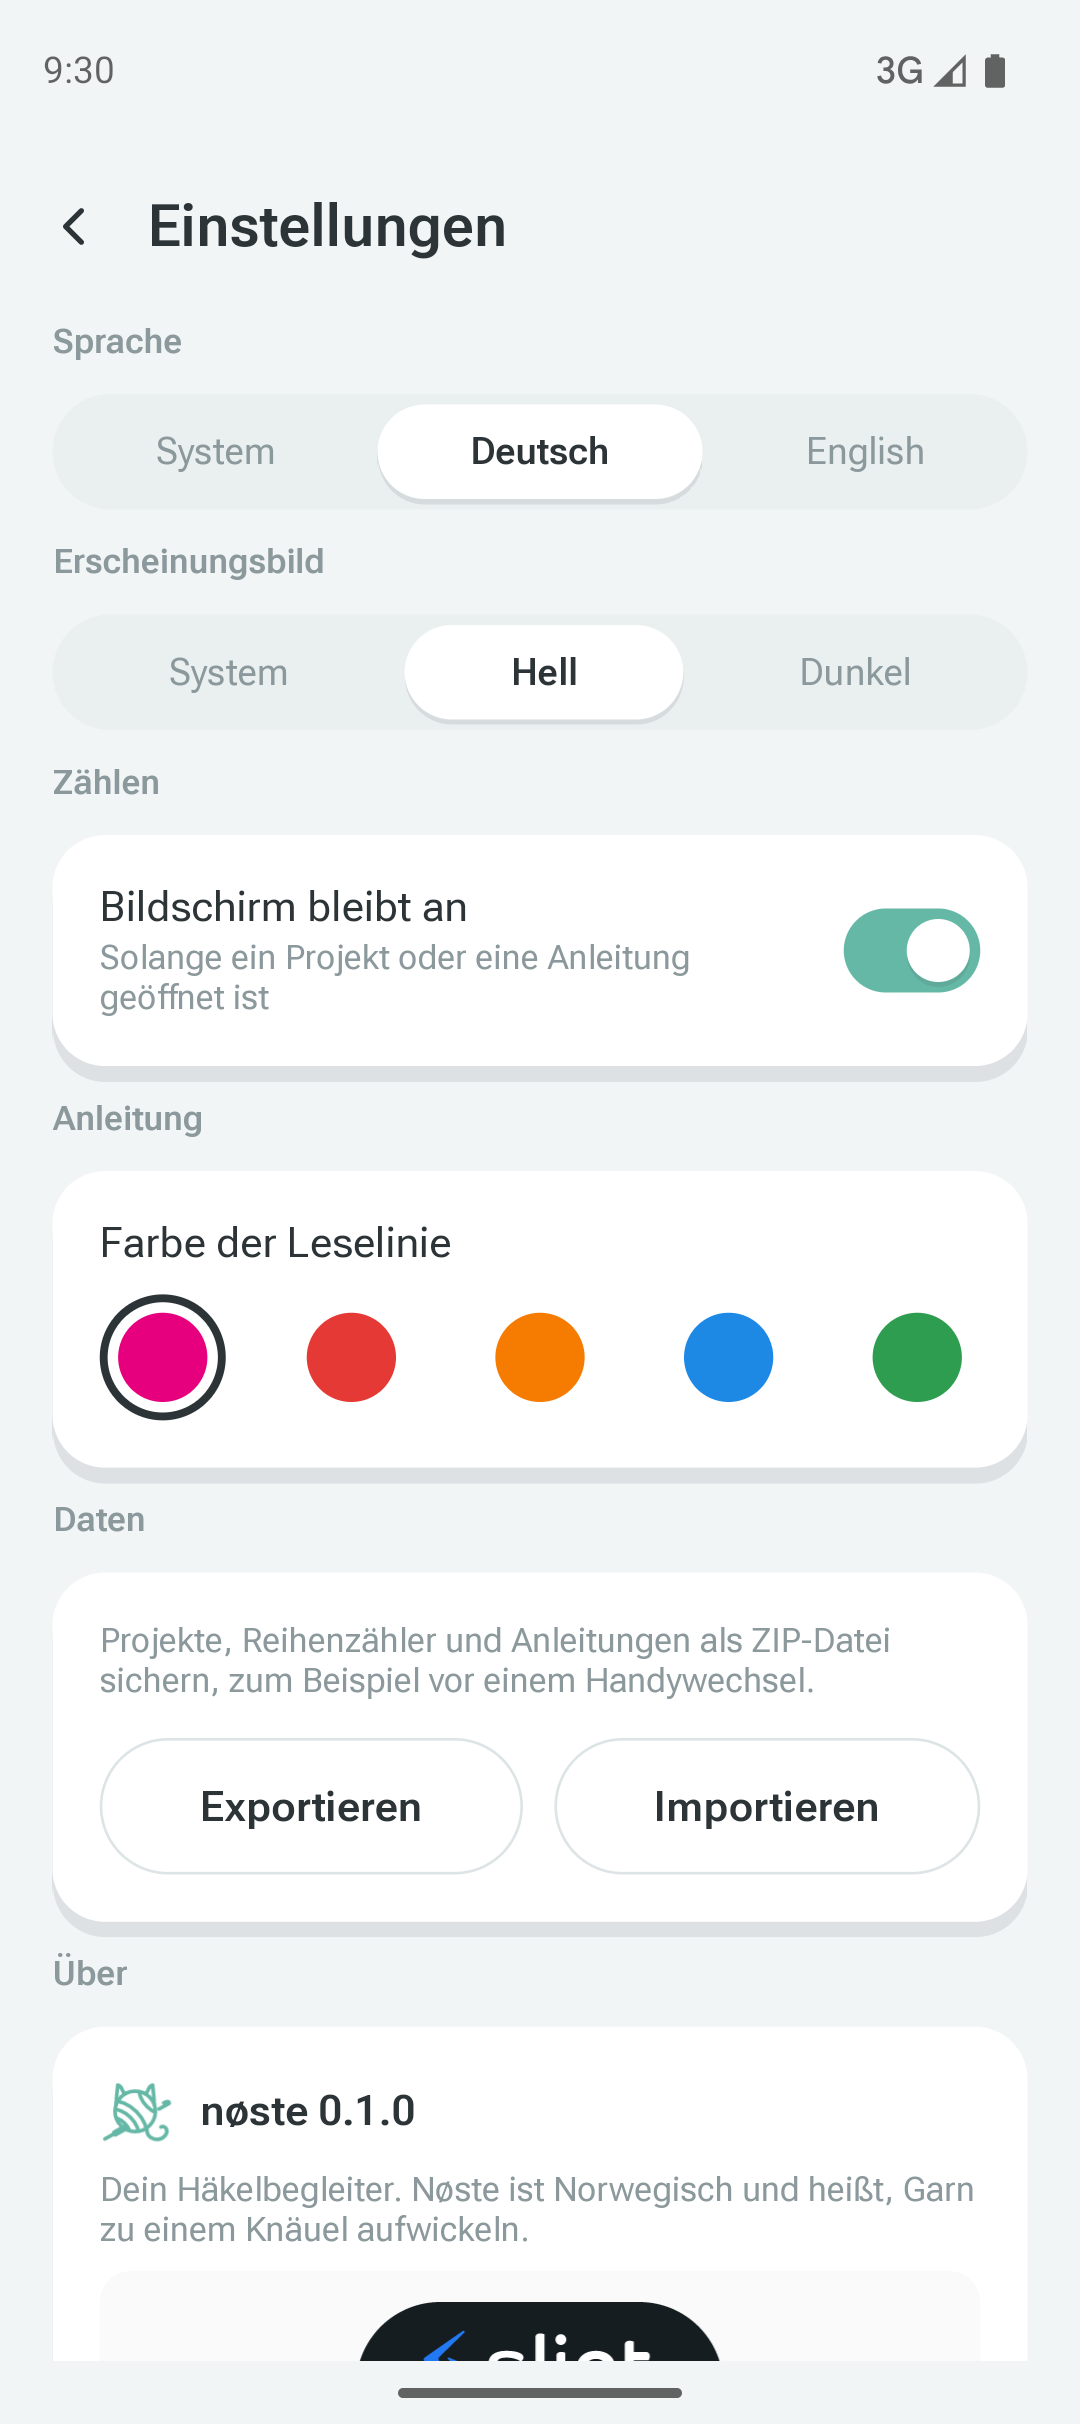
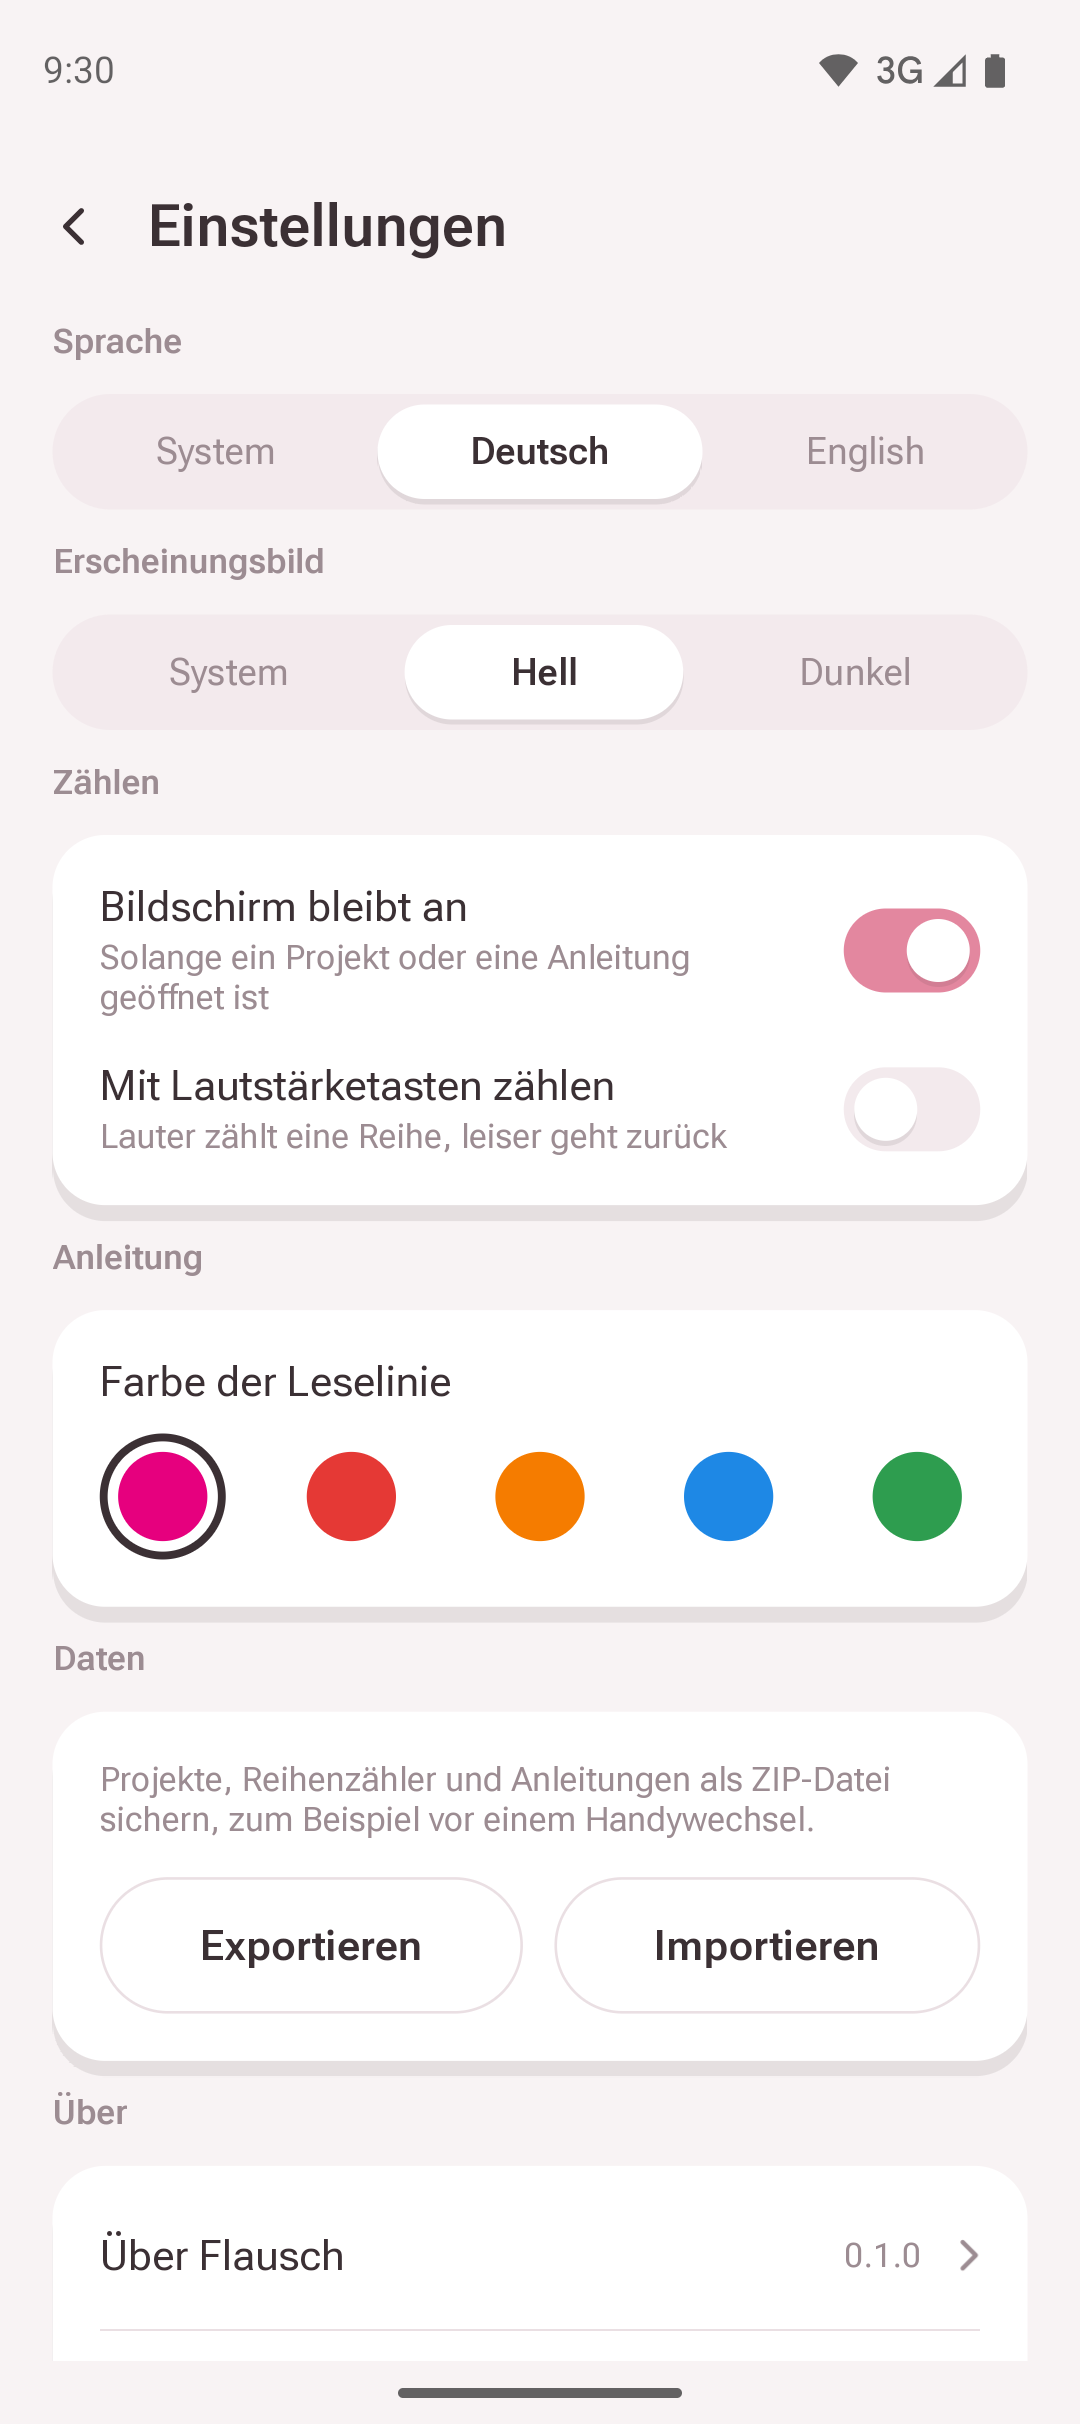
docs: user-facing README, CONTRIBUTING.md and current screenshots
Closes #

<!-- Title: Conventional Commits, e.g. "feat: count with the volume
keys". feat and fix titles end up in the
changelog, so write them for users. -->

- README is written for users now (like keepass2android): screenshots,
features, privacy, support/donate, contributing. No more "MVP".
- Setup, build, release and PR notes move to `CONTRIBUTING.md`; the code
layout stays in `AGENTS.md`.
- Store screenshots (en-US, de-DE) were still from the old name and
colors; retaken on the emulator with the demo data (demo PDF in Flausch
pink).
- Store descriptions list the newer features: parts made several times,
project status and notes, swiping, volume keys.

- [x] `make check` and `make test`
- [x] New UI strings have a German translation (none)
- [ ] Android-specific changes: `make check-android` and tested on the
emulator (none)

diff --git a/README.md b/README.md
@@ -2,72 +2,56 @@
 
 # Flausch
 
-An Android app for crocheting, written in Rust. *Flausch* is German for fluff (from *flauschig*, fluffy).
+Row counter and pattern viewer for crocheting – simple, offline, free. *Flausch* is German for fluff (from
+*flauschig*, fluffy).
 
-The UI uses [Slint](https://slint.dev) (`ui/*.slint`), which runs on Android via its `android-activity` backend and
-on the desktop via winit – so most development happens with a plain `cargo run`. APKs are built with
-[cargo-apk](https://github.com/rust-mobile/cargo-apk). `minSdk` 29 (Android 10).
+<p>
+<img src="fastlane/metadata/android/en-US/images/phoneScreenshots/1.png" width="180" alt="Project list">
+<img src="fastlane/metadata/android/en-US/images/phoneScreenshots/2.png" width="180" alt="Project with parts">
+<img src="fastlane/metadata/android/en-US/images/phoneScreenshots/3.png" width="180" alt="Pattern with row counter">
+<img src="fastlane/metadata/android/en-US/images/phoneScreenshots/4.png" width="180" alt="Row counter">
+</p>
 
-## Features (MVP)
+## Features
 
-Projects made of parts (e.g. head, body, legs), each with its own row counter and optional row goal; project
-list with pattern covers, total progress, search and a continue button; PDF patterns (imported and rendered on the
-device) with a row counter for any part that can be enlarged and a movable reading line (color selectable); backup and restore of all data as a ZIP file; keep screen on, Android back key, German/English,
-light/dark mode, TalkBack support.
+**Projects and parts**
 
-## Layout
+- Split a project into parts (e.g. head, ears, body), each with its own row counter and an optional row goal
+- Parts made several times (e.g. 4 legs) count each piece
+- Project status (planned, in progress, paused, finished) and notes
+- The project list shows the pattern cover, the current part and the total progress
+- Search by project or part name, continue where you left off with one tap
 
-- `src/lib.rs` – controller wiring the UI to the model, `android_main` entry point (built as `cdylib`)
-- `src/model.rs`, `src/storage.rs` – data model and JSON persistence (no Slint)
-- `src/pdf.rs`, `src/platform/` – PDF render worker, Android (JNI) and desktop platform code
-- `src/main.rs` – desktop entry point
-- `ui/` – Slint UI (`app.slint` root, `store.slint` Rust↔UI contract, `theme.slint`, `pages/`)
-- `lang/` – translations (gettext `.po`, bundled at build time)
-- `android/java/` – small Java helper (file picker and save dialog, PdfRenderer, TalkBack bridge), compiled by
-  `build.rs`
-- `android/res/` – Android resources (launcher icon)
-- `tools/logo.py` – generates the logo (`ui/icons/logo.svg`), the launcher icon and the store icon
-- `fastlane/metadata/android/` – store texts, icon and screenshots (en-US, de-DE)
-- `fdroid/` – F-Droid build recipe and release steps
+**Patterns**
 
-See [`AGENTS.md`](AGENTS.md) for conventions and development notes.
+- Import PDF patterns; they are copied into the app and rendered on your device
+- Count rows right in the pattern, switch parts there or enlarge the counter
+- Swipe to turn pages, zoom in with a double tap
+- A movable reading line marks your row and remembers its position on every page
 
-## Setup
+**Made for crocheting**
 
-- Rust via [rustup](https://rustup.rs); `rust-toolchain.toml` pulls in stable with clippy, rustfmt and the
-  Android targets
-- `cargo install cargo-apk`
-- Android SDK in `~/Android/Sdk` with `platforms;android-36`, `build-tools;36.0.0`, `ndk;<version>`
-  (and `emulator` plus a system image for an emulator)
-- A JDK (`javac`) for Slint's Android Java helper, by default in `~/.local/opt/jdk-21`
+- Large buttons for one-handed use, counting with the volume keys, the screen stays on while you work
+- Backup and restore of all data as a ZIP file, e.g. when you switch phones
+- Light and dark mode, English and German, works with TalkBack
 
-The `Makefile` defaults to these paths; override them via `ANDROID_HOME`, `ANDROID_NDK_ROOT`, `JAVA_HOME`.
-
-## Build
-
-```sh
-make run                 # desktop window
-make test                # unit, controller and UI tests (headless)
-make check               # rustfmt + clippy
-make ci                  # everything CI checks: also Android clippy, cargo-deny (cargo install cargo-deny)
-make apk                 # target/debug/apk/flausch.apk (arm64)
-make apk-release         # release APK (needs a keystore, see below)
-make install             # build, install and start on a connected device
-make emulator            # start the AVD "flausch"; then: make install TARGET=x86_64-linux-android
-```
-
-On Linux the desktop build loads fontconfig at runtime (`fontique/fontconfig-dlopen`), so no `-dev` packages are
-needed.
-
-## Release
-
-`make apk-release` signs with the keystore from `CARGO_APK_RELEASE_KEYSTORE` and
-`CARGO_APK_RELEASE_KEYSTORE_PASSWORD`. Releases go to F-Droid, which builds from source; see
-[`fdroid/README.md`](fdroid/README.md).
+Flausch runs on Android 10 and newer.
 
 ## Privacy
 
-Flausch requests no permissions, has no internet access and collects no data. Projects and PDFs stay on the device.
+Flausch requests no permissions, has no internet access and collects no data. No account, no ads, no tracking.
+Projects and PDFs stay on your device.
+
+## Support
+
+I make Flausch on my own, in my spare time. If it helps you, you can buy me a coffee via
+[GitHub Sponsors](https://github.com/sponsors/ldrick) or [Liberapay](https://liberapay.com/ldrick). Bugs and ideas
+are welcome as [issues](https://github.com/ldrick/flausch/issues).
+
+## Contributing
+
+Flausch is written in Rust with the [Slint](https://slint.dev) UI toolkit. See [CONTRIBUTING.md](CONTRIBUTING.md)
+for building and testing, and [`AGENTS.md`](AGENTS.md) for the architecture and conventions.
 
 ## License
 

diff --git a/CONTRIBUTING.md b/CONTRIBUTING.md
@@ -1,0 +1,45 @@
+# Contributing to Flausch
+
+Flausch is written in Rust with a [Slint](https://slint.dev) UI (`ui/*.slint`). Slint runs on Android via its
+`android-activity` backend and on the desktop via winit, so most development happens with a plain `cargo run`.
+APKs are built with [cargo-apk](https://github.com/rust-mobile/cargo-apk).
+
+The architecture, UI and translation conventions and Android notes are in [`AGENTS.md`](AGENTS.md).
+
+## Setup
+
+- Rust via [rustup](https://rustup.rs); `rust-toolchain.toml` pulls in stable with clippy, rustfmt and the
+  Android targets
+- `cargo install cargo-apk`
+- Android SDK in `~/Android/Sdk` with `platforms;android-36`, `build-tools;36.0.0`, `ndk;<version>`
+  (and `emulator` plus a system image for an emulator)
+- A JDK (`javac`) for Slint's Android Java helper, by default in `~/.local/opt/jdk-21`
+
+The `Makefile` defaults to these paths; override them via `ANDROID_HOME`, `ANDROID_NDK_ROOT`, `JAVA_HOME`.
+
+## Build
+
+```sh
+make run                 # desktop window
+make test                # unit, controller and UI tests (headless)
+make check               # rustfmt + clippy
+make ci                  # everything CI checks: also Android clippy, cargo-deny (cargo install cargo-deny)
+make apk                 # target/debug/apk/flausch.apk (arm64)
+make apk-release         # release APK (needs a keystore, see below)
+make install             # build, install and start on a connected device
+make emulator            # start the AVD "flausch"; then: make install TARGET=x86_64-linux-android
+```
+
+On Linux the desktop build loads fontconfig at runtime (`fontique/fontconfig-dlopen`), so no `-dev` packages are
+needed.
+
+## Release
+
+`make apk-release` signs with the keystore from `CARGO_APK_RELEASE_KEYSTORE` and
+`CARGO_APK_RELEASE_KEYSTORE_PASSWORD`. Releases go to F-Droid, which builds from source; see
+[`fdroid/README.md`](fdroid/README.md).
+
+## Pull requests
+
+One change per branch and pull request. Fill in the template, run `make check` and `make test`, and give every new
+UI string a German translation in `lang/de/LC_MESSAGES/flausch.po` (see `AGENTS.md`).
